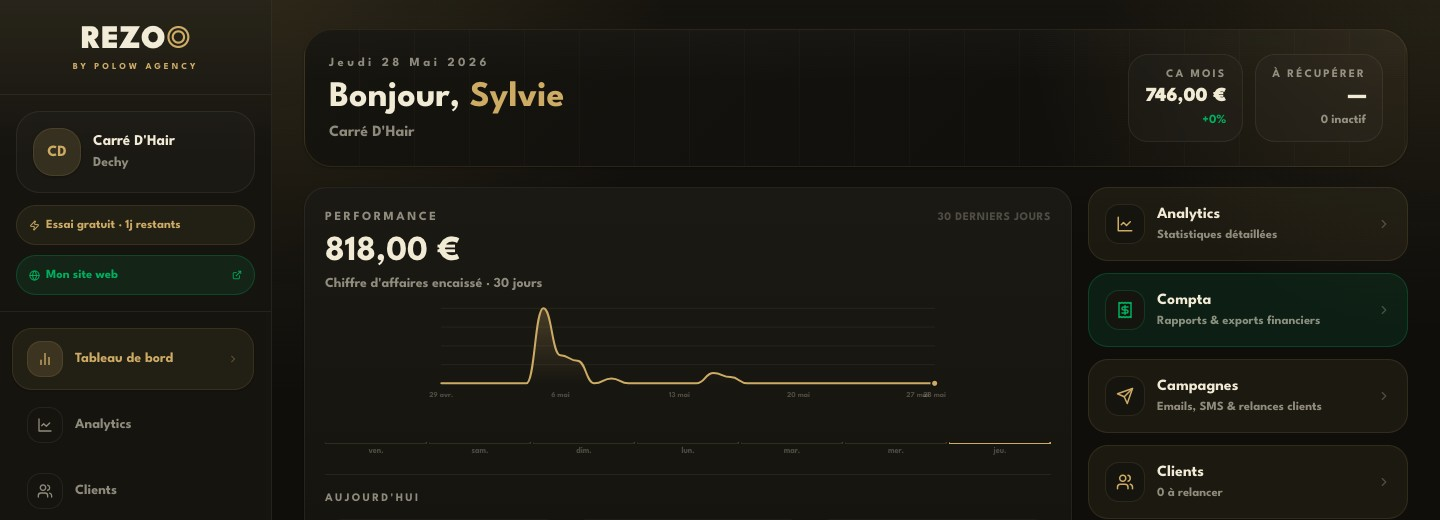
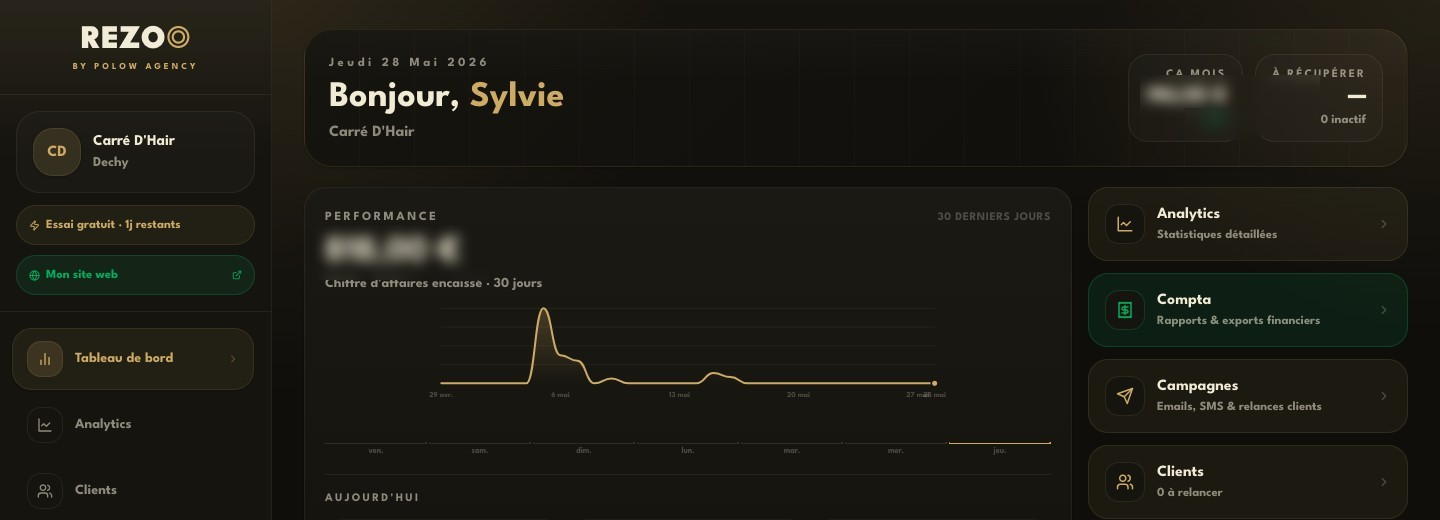
fix: chiffres dashboard floutés + refonte responsive mobile
- Flou sur 818€ et 746€ dans le screenshot dashboard
- Refonte complète des media queries (tablet + mobile + small)
- Process steps en layout vertical sur mobile
- Hero CTA full-width sur mobile
- Paddings réduits, typographie adaptée
- Section "eux vs nous" : colonne générique masquée sur mobile

Changed region(s): [[0.2188, 0.4308, 0.3438, 0.5231], [0.7812, 0.1538, 0.875, 0.2462]]

diff --git a/index.html b/index.html
@@ -478,57 +478,121 @@ footer{background:var(--bg);border-top:1px solid var(--border);padding:4rem 0 1.
 /* ═══════════════════════════════════════════
    RESPONSIVE TABLET (600-1024px)
 ═══════════════════════════════════════════ */
+/* ── TABLET ── */
 @media(max-width:1024px){
   .container{padding:0 2rem}
-  .rezoo-inner{grid-template-columns:1fr;gap:3rem}
+  .rezoo-inner{grid-template-columns:1fr;gap:2.5rem}
   .rezoo-right{display:flex;justify-content:center}
-  .rezoo-mockup-wrap{max-width:480px;width:100%}
-  .solution-inner{grid-template-columns:1fr;gap:2.5rem}
+  .rezoo-mockup-wrap{max-width:560px;width:100%}
+  .rezoo-desc{max-width:100%}
+  .solution-inner{grid-template-columns:1fr;gap:2rem}
   .offres-grid{grid-template-columns:1fr;gap:1rem}
   .offre-card.featured{transform:none}
   .offre-card.featured:hover{transform:translateY(-4px)}
   .diff-cols{grid-template-columns:1fr}
+  .diff-col-them{display:none}
   .real-grid{grid-template-columns:1fr}
-  .process-steps{grid-template-columns:repeat(3,1fr);gap:2rem}
+  .process-steps{grid-template-columns:repeat(3,1fr);gap:1.5rem}
   .process-line{display:none}
   .footer-inner{grid-template-columns:1fr 1fr;gap:2rem}
+  #hero{padding:8rem 2rem 4rem}
+  #rezoo,#offres,#difference,#realisations,#process{padding:5rem 0}
+  #positioning,#problems,#solution{padding:4.5rem 0}
+  #contact{padding:5.5rem 0}
 }
+
+/* ── MOBILE ── */
 @media(max-width:768px){
-  nav{padding:.85rem 1.25rem;grid-template-columns:1fr auto}
+  html{font-size:15px}
+  nav{padding:.9rem 1.25rem;grid-template-columns:1fr auto}
   .nav-links,.nav-right{display:none}
   .nav-burger{display:flex}
   .container{padding:0 1.25rem}
-  h1{font-size:clamp(2.2rem,9vw,3.8rem)}
-  #hero{padding:7rem 1.25rem 4rem}
-  .hero-actions{flex-direction:column;align-items:center}
-  .hero-actions .btn-primary,.hero-actions .btn-secondary{width:100%;max-width:320px;justify-content:center}
-  #positioning{padding:4rem 0}
-  .pos-grid{grid-template-columns:1fr 1fr;gap:.85rem}
-  #rezoo{padding:5rem 0}
-  #problems{padding:4rem 0}
-  .problems-grid{grid-template-columns:1fr}
-  #solution{padding:4rem 0}
-  #offres{padding:5rem 0}
-  #difference{padding:5rem 0}
-  #realisations{padding:5rem 0}
-  #process{padding:5rem 0}
-  .process-steps{grid-template-columns:1fr 1fr;gap:1.5rem}
-  #contact{padding:5rem 0}
-  .contact-options{flex-direction:column;align-items:stretch}
-  .form-row{grid-template-columns:1fr}
+
+  /* Hero */
+  h1{font-size:clamp(2.4rem,10vw,3.6rem);letter-spacing:-.025em;line-height:1.1}
+  #hero{padding:6rem 1.25rem 3.5rem;min-height:100svh}
+  .hero-badge{font-size:.65rem;margin-bottom:1.5rem}
+  .hero-sub{font-size:.95rem;margin-bottom:2rem}
+  .hero-actions{flex-direction:column;align-items:center;gap:.65rem;margin-bottom:2rem}
+  .hero-actions a{width:100%;max-width:340px;justify-content:center;padding:.95rem 1.5rem}
+  .hero-tags{gap:.5rem}
+  .hero-scroll{display:none}
+
+  /* Sections padding */
+  #positioning,#problems,#solution{padding:3.5rem 0}
+  #rezoo,#offres,#difference,#realisations,#process{padding:4rem 0}
+  #contact{padding:4.5rem 0}
   footer{padding:3rem 0 1.5rem}
-  .footer-inner{grid-template-columns:1fr;gap:2rem}
-  .footer-bottom{flex-direction:column;align-items:flex-start;gap:.35rem}
+
+  /* Positioning */
+  .pos-grid{grid-template-columns:1fr;gap:.75rem}
+  .section-sub{max-width:100%}
+
+  /* REZOO */
+  .rezoo-inner{gap:2rem}
+  .rezoo-mockup-wrap{max-width:100%}
+  .rezoo-features{gap:.45rem}
+  .rezoo-actions{flex-direction:column;gap:.6rem}
+  .rezoo-actions a{width:100%;justify-content:center}
+
+  /* Problems */
+  .problems-grid{grid-template-columns:1fr;gap:.65rem}
+
+  /* Solution */
+  .solution-quote{font-size:1.2rem}
+  .solution-list li{font-size:.85rem}
+
+  /* Offres */
+  .offres-grid{gap:.85rem}
+  .offre-card{padding:1.5rem}
+
+  /* Difference */
+  .diff-col-them{display:none}
+  .diff-col-us{border-radius:var(--radius)}
+
+  /* Réalisations */
+  .real-notice{font-size:.72rem}
+  .real-preview{height:190px}
+  .real-info{padding:1.1rem 1.25rem}
+
+  /* Process */
+  .process-steps{grid-template-columns:1fr;gap:1.25rem;margin-top:2rem}
+  .step{text-align:left;display:flex;align-items:flex-start;gap:1rem;padding:0}
+  .step-num{width:48px;height:48px;font-size:1.1rem;margin-bottom:0;flex-shrink:0}
+  .step h4{font-size:.95rem;margin-bottom:.3rem}
+  .step p{font-size:.82rem}
+
+  /* Contact */
+  .contact-ctas{flex-direction:column;align-items:center;gap:.65rem}
+  .contact-ctas a{width:100%;max-width:340px;justify-content:center}
+  .contact-options{flex-direction:column;gap:.65rem}
+  .form-row{grid-template-columns:1fr}
+  .contact-sub{font-size:.88rem}
+
+  /* Footer */
+  .footer-inner{grid-template-columns:1fr;gap:1.75rem}
+  .footer-bottom{flex-direction:column;gap:.35rem}
+  .footer-col-title{margin-top:.25rem}
+
+  /* Legal bar */
   .legal-bar{padding:0 1rem}
   .legal-bar-copy{display:none}
+
+  /* Floating */
   .float-group{bottom:calc(26px + .75rem);right:1rem}
   .wa-btn span{display:none}
-  .wa-btn{padding:0;border-radius:50%;width:44px;height:44px;justify-content:center}
+  .wa-btn{padding:0;border-radius:50%;width:46px;height:46px;justify-content:center}
 }
-@media(max-width:480px){
-  .pos-grid{grid-template-columns:1fr}
-  .process-steps{grid-template-columns:1fr}
-  h2.section-title{font-size:clamp(1.7rem,8vw,2.4rem)}
+
+/* ── SMALL MOBILE ── */
+@media(max-width:400px){
+  html{font-size:14px}
+  h1{font-size:clamp(2rem,10vw,3rem)}
+  h2.section-title{font-size:clamp(1.5rem,8vw,2rem)}
+  .container{padding:0 1rem}
+  #hero{padding:5.5rem 1rem 3rem}
+  .hero-actions a{max-width:100%}
 }
 </style>
 </head>
